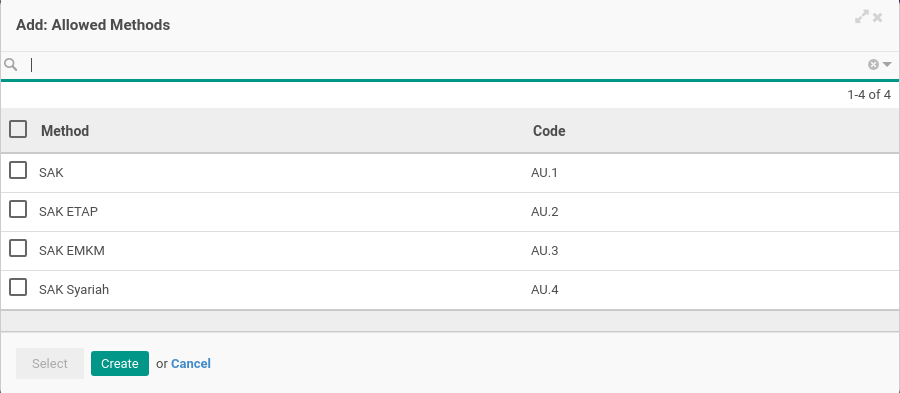
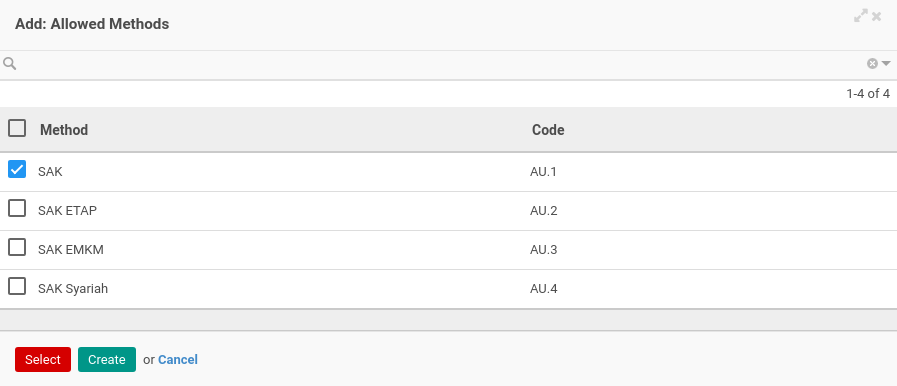
Accountant Service Revisi Daftar Isi Accountant Service Menghapus Accountant Service Menonaktifkan Accountant Service Menambahkan Signing Partner Memodifikasi Signing Partner Menghapus Signing Partner Menambahkan Opini Menghapus Opini Menambahkan Pertanyaan Memodifikasi Pertanyaan Menghapus Pertanya

diff --git a/src/konfigurasi/accountant-service/menambahkan-pertanyaan.md b/src/konfigurasi/accountant-service/menambahkan-pertanyaan.md
@@ -1,1 +1,37 @@
 # Menambahkan Pertanyaan
+
+*(Instruksi kerja ini merupakan sub instruksi dari (1) [Membuat Accountant Service](./membuat.md), atau (2) [Memodifikasi Accountant Service](./memodifikasi.md). Instruksi kerja ini tidak bisa berdiri sendiri)*
+
+## A. INPUT
+
+*(Tidak ada instruksi khusus)*
+
+## B. LANGKAH KERJA
+
+1. Klik label **Add an Item** pada bagian atas-kiri tabel ***Question***
+
+![](../../img/accountant-service/tombol-add-item-question.png)
+
+Pop-up ***Questions*** akan muncul.
+
+![](../../img/accountant-service/tab-quality-control-detail-qualitative.png)
+
+![](../../img/accountant-service/tab-quality-control-detail-quantitative.png)
+
+2. Isi **[Question](./penjelasan.md#field-question)**. Wajib diisi.
+3. Isi **[Sequence](./penjelasan.md#field-question-sequence)**. Wajib diisi.
+4. Pilih **[Type](./penjelasan.md#field-question-type)**. Wajib diisi.
+5. <a name="l5">[Tambah](./menambahkan-jawaban.md)/[Modifikasi](./memodifikasi-jawaban.md)/[Hapus](./menghapus-jawaban.md) **Answer**</a> untuk pilihan *Type* *Qualitative*. Ulangi langkah ini sampai **Answer** sesuai dengan keinginan.
+6. Isi nilai minimum dan maksimum untuk pilihan *Type* *Quantitative*. Wajib diisi.
+7. Klik tombol **Save & Close** pada bagian bawah-kiri pop-up **Question** untuk menyimpan data. Klik tombol **Save & New** pada bagian bawah-kiri pop-up **Question** untuk menyimpan data dan menambahkan data baru.
+
+![](../../img/accountant-service/tombol-save-close-question.png)
+
+![](../../img/accountant-service/tombol-save-new-question.png)
+
+8. Ulangi langkah ke-2 jika pada langkah ke-7 tombol **Save & New** yang dipilih.
+9. Lanjutkan [langkah ke-17 instruksi kerja Membuat Accountant Service](./membuat.md#l17) atau [langkah ke-18 instruksi kerja Memodifikasi Accountant Service](./memodifikasi.md#l18).
+
+## C. OUTPUT
+
+*(Tidak ada instruksi khusus)*

diff --git a/src/konfigurasi/accountant-service/menambahkan-signing-partner.md b/src/konfigurasi/accountant-service/menambahkan-signing-partner.md
@@ -1,1 +1,36 @@
 # Menambahkan Signing Partner
+
+*(Instruksi kerja ini merupakan sub instruksi dari (1) [Membuat Accountant Service](./membuat.md), atau (2) [Memodifikasi Accountant Service](./memodifikasi.md). Instruksi kerja ini tidak bisa berdiri sendiri)*
+
+## A. INPUT
+
+*(Tidak ada instruksi khusus)*
+
+## B. LANGKAH KERJA
+
+1. Klik label **Add an Item** pada bagian atas-kiri tabel ***Signing Partner***
+
+![](../../img/accountant-service/tombol-add-item-signing-partner.png)
+
+Pop-up ***Signing Partner*** akan muncul.
+
+![](../../img/accountant-service/tab-signing-partner-detail.png)
+
+2. Pilih **[Signing Partner](./penjelasan.md#field-signing-partner)**. Wajib diisi.
+3. Pilih **[Sequence](./penjelasan.md#field-sequence)**. Tidak wajib diisi.
+4. Pilih **[Allowed To Confirm](./penjelasan.md#field-allowed-to-confirm)**. Tidak wajib diisi.
+5. Pilih **[Allowed To Validate](./penjelasan.md#field-allowed-to-validate)**. Tidak wajib diisi.
+6. Pilih **[Allowed To Cancel](./penjelasan.md#field-allowed-to-cancel)**. Tidak wajib diisi.
+7. Pilih **[Allowed To Restart](./penjelasan.md#field-allowed-to-restart)**. Tidak wajib diisi.
+8. Klik tombol **Save & Close** pada bagian bawah-kiri pop-up **Signing Partner** untuk menyimpan data. Klik tombol **Save & New** pada bagian bawah-kiri pop-up **Signing Partner** untuk menyimpan data dan menambahkan data baru.
+
+![](../../img/accountant-service/tombol-save-close-signing-partner.png)
+
+![](../../img/accountant-service/tombol-save-new-signing-partner.png)
+
+9. Ulangi langkah ke-2 jika pada langkah ke-8 tombol **Save & New** yang dipilih.
+10. Lanjutkan [langkah ke-12 instruksi kerja Membuat Accountant Service](./membuat.md#l12) atau [langkah ke-13 instruksi kerja Memodifikasi Accountant Service](./memodifikasi.md#l13).
+
+## C. OUTPUT
+
+*(Tidak ada instruksi khusus)*

diff --git a/src/konfigurasi/accountant-service/memodifikasi-signing-partner.md b/src/konfigurasi/accountant-service/memodifikasi-signing-partner.md
@@ -1,1 +1,26 @@
 # Memodifikasi Signing Partner
+
+*(Instruksi kerja ini merupakan sub instruksi dari (1) [Membuat Accountant Service](./membuat.md), atau (2) [Memodifikasi Accountant Service](./memodifikasi.md). Instruksi kerja ini tidak bisa berdiri sendiri)*
+
+## A. INPUT
+
+*(Tidak ada instruksi khusus)*
+
+## B. LANGKAH KERJA
+
+1. Buka data **Signing Partner** yang akan dimodifikasi.
+2. Pilih dan sesuaikan **[Signing Partner](./penjelasan.md#field-signing-partner)** jika dibutuhkan. Wajib diisi.
+3. Pilih dan sesuaikan **[Sequence](./penjelasan.md#field-sequence)** jika dibutuhkan. Tidak wajib diisi.
+4. Pilih dan sesuaikan **[Allowed To Confirm](./penjelasan.md#field-allowed-to-confirm)** jika dibutuhkan. Tidak wajib diisi.
+5. Pilih dan sesuaikan **[Allowed To Validate](./penjelasan.md#field-allowed-to-validate)** jika dibutuhkan. Tidak wajib diisi.
+6. Pilih dan sesuaikan **[Allowed To Cancel](./penjelasan.md#field-allowed-to-cancel)** jika dibutuhkan. Tidak wajib diisi.
+7. Pilih dan sesuaikan **[Allowed To Restart](./penjelasan.md#field-allowed-to-restart)** jika dibutuhkan. Tidak wajib diisi.
+8. Klik tombol **Save** pada bagian bawah-kiri form.
+
+![](../../img/accountant-service/tombol-save-modifikasi-signing-partner.png)
+
+9. Lanjutkan [langkah ke-12 instruksi kerja Membuat Accountant Service](./membuat.md#l12) atau [langkah ke-13 instruksi kerja Memodifikasi Accountant Service](./memodifikasi.md#l13).
+
+## C. OUTPUT
+
+*(Tidak ada instruksi khusus)*

diff --git a/src/konfigurasi/accountant-service/memodifikasi-pertanyaan.md b/src/konfigurasi/accountant-service/memodifikasi-pertanyaan.md
@@ -1,1 +1,25 @@
 # Memodifikasi Pertanyaan
+
+*(Instruksi kerja ini merupakan sub instruksi dari (1) [Membuat Accountant Service](./membuat.md), atau (2) [Memodifikasi Accountant Service](./memodifikasi.md). Instruksi kerja ini tidak bisa berdiri sendiri)*
+
+## A. INPUT
+
+*(Tidak ada instruksi khusus)*
+
+## B. LANGKAH KERJA
+
+1. Buka data **Question** yang akan dimodifikasi.
+2. Isi dan sesuaikan **[Question](./penjelasan.md#field-question)** jika dibutuhkan. Wajib diisi.
+3. Isi dan sesuaikan **[Sequence](./penjelasan.md#field-question-sequence)** jika dibutuhkan. Wajib diisi.
+4. Pilih dan sesuaikan **[Type](./penjelasan.md#field-question-type)** jika dibutuhkan. Wajib diisi.
+5. <a name="l5">[Tambah](./menambahkan-jawaban.md)/[Modifikasi](./memodifikasi-jawaban.md)/[Hapus](./menghapus-jawaban.md) **Answer**</a> untuk pilihan *Type* *Qualitative*. Ulangi langkah ini sampai **Answer** sesuai dengan keinginan.
+6. Isi dan sesuaikan nilai minimum dan maksimum untuk pilihan *Type* *Quantitative* jika dibutuhkan. Wajib diisi.
+7. Klik tombol **Save** pada bagian bawah-kiri form.
+
+![](../../img/accountant-service/tombol-save-modifikasi-question.png)
+
+8. Lanjutkan [langkah ke-17 instruksi kerja Membuat Accountant Service](./membuat.md#l17) atau [langkah ke-18 instruksi kerja Memodifikasi Accountant Service](./memodifikasi.md#l18).
+
+## C. OUTPUT
+
+*(Tidak ada instruksi khusus)*

diff --git a/src/konfigurasi/accountant-service/menambahkan-jawaban.md b/src/konfigurasi/accountant-service/menambahkan-jawaban.md
@@ -1,1 +1,28 @@
 # Menambahkan Jawaban
+
+*(Instruksi kerja ini merupakan sub instruksi dari (1) [Menambahkan Pertanyaan](./menambahkan-pertanyaan.md), atau (2) [Memodifikasi Pertanyaan](./memodifikasi-pertanyaan.md). Instruksi kerja ini tidak bisa berdiri sendiri)*
+
+## A. INPUT
+
+*(Tidak ada instruksi khusus)*
+
+## B. LANGKAH KERJA
+
+1. Klik label **Add an Item** pada bagian atas-kiri tabel ***Answer***
+
+![](../../img/accountant-service/tombol-add-item-answer.png)
+
+2. Isi **[Value](./penjelasan.md#field-value)**. Wajib diisi.
+3. Aktifkan/ Deaktifkan **[Correct Answer](./penjelasan.md#field-correct-answer)**. Tidak wajib diisi.
+4. Klik tombol **Save & Close** pada bagian bawah-kiri pop-up **Answer** untuk menyimpan data. Klik tombol **Save & New** pada bagian bawah-kiri pop-up **Answer** untuk menyimpan data dan menambahkan data baru.
+
+![](../../img/accountant-service/tombol-save-close-answer.png)
+
+![](../../img/accountant-service/tombol-save-new-answer.png)
+
+5. Ulangi mulai langkah ke-1 jika pada langkah ke-4 tombol **Save & New** yang dipilih.
+6. Lanjutkan [langkah ke-5 instruksi kerja Menambahkan Pertanyaan](./menambahkan-pertanyaan.md#l5) atau [langkah ke-5 instruksi kerja Memodifikasi Pertanyaan](./memodifikasi-pertanyaan.md#l5).
+
+## C. OUTPUT
+
+*(Tidak ada instruksi khusus)*

diff --git a/src/SUMMARY.md b/src/SUMMARY.md
@@ -10,7 +10,6 @@
         - [Memodifikasi Signing Partner](./konfigurasi/accountant-service/memodifikasi-signing-partner.md)
         - [Menghapus Signing Partner](./konfigurasi/accountant-service/menghapus-signing-partner.md)
         - [Menambahkan Opini](./konfigurasi/accountant-service/menambahkan-opini.md)
-        - [Memodifikasi Opini](./konfigurasi/accountant-service/memodifikasi-opini.md)
         - [Menghapus Opini](./konfigurasi/accountant-service/menghapus-opini.md)
         - [Menambahkan Pertanyaan](./konfigurasi/accountant-service/menambahkan-pertanyaan.md)
         - [Memodifikasi Pertanyaan](./konfigurasi/accountant-service/memodifikasi-pertanyaan.md)
@@ -19,7 +18,6 @@
         - [Memodifikasi Jawaban](./konfigurasi/accountant-service/memodifikasi-jawaban.md)
         - [Menghapus Jawaban](./konfigurasi/accountant-service/menghapus-jawaban.md)
         - [Menambahkan Method](./konfigurasi/accountant-service/menambahkan-method.md)
-        - [Memodifikasi Method](./konfigurasi/accountant-service/memodifikasi-method.md)
         - [Menghapus Method](./konfigurasi/accountant-service/menghapus-method.md)
         - [Menghapus Accountant Service](./konfigurasi/accountant-service/menghapus.md)
         - [Menonaktifkan Accountant Service](./konfigurasi/accountant-service/menonaktifkan.md)

diff --git a/src/konfigurasi/accountant-service.md b/src/konfigurasi/accountant-service.md
@@ -9,7 +9,6 @@
 - [Memodifikasi Signing Partner](./accountant-service/memodifikasi-signing-partner.md)
 - [Menghapus Signing Partner](./accountant-service/menghapus-signing-partner.md)
 - [Menambahkan Opini](./accountant-service/menambahkan-opini.md)
-- [Memodifikasi Opini](./accountant-service/memodifikasi-opini.md)
 - [Menghapus Opini](./accountant-service/menghapus-opini.md)
 - [Menambahkan Pertanyaan](./accountant-service/menambahkan-pertanyaan.md)
 - [Memodifikasi Pertanyaan](./accountant-service/memodifikasi-pertanyaan.md)
@@ -18,7 +17,6 @@
 - [Memodifikasi Jawaban](./accountant-service/memodifikasi-jawaban.md)
 - [Menghapus Jawaban](./accountant-service/menghapus-jawaban.md)
 - [Menambahkan Method](./accountant-service/menambahkan-method.md)
-- [Memodifikasi Method](./accountant-service/memodifikasi-method.md)
 - [Menghapus Method](./accountant-service/menghapus-method.md)
 - [Menghapus Accountant Service](./accountant-service/menghapus.md)
 - [Menonaktifkan Accountant Service](./accountant-service/menonaktifkan.md)

diff --git a/src/konfigurasi/accountant-service/menambahkan-opini.md b/src/konfigurasi/accountant-service/menambahkan-opini.md
@@ -1,1 +1,28 @@
 # Menambahkan Opini
+
+*(Instruksi kerja ini merupakan sub instruksi dari (1) [Membuat Accountant Service](./membuat.md), atau (2) [Memodifikasi Accountant Service](./memodifikasi.md). Instruksi kerja ini tidak bisa berdiri sendiri)*
+
+## A. INPUT
+
+*(Tidak ada instruksi khusus)*
+
+## B. LANGKAH KERJA
+
+1. Klik label **Add an Item** pada bagian atas-kiri tabel ***Opinion***
+
+![](../../img/accountant-service/tombol-add-item-opinion.png)
+
+Pop-up ***Allowed Opinion*** akan muncul.
+
+![](../../img/accountant-service/tab-opinions-detail.png)
+
+2. Seleksi data *Opinion*.
+3. Klik tombol **Select** pada bagian bawah-kiri pop-up ***Allowed Opinion***
+
+![](../../img/accountant-service/tombol-select-opinion.png)
+
+4. Lanjutkan [langkah ke-15 instruksi kerja Membuat Accountant Service](./membuat.md#l15) atau [langkah ke-16 instruksi kerja Memodifikasi Accountant Service](./memodifikasi.md#l16).
+
+## C. OUTPUT
+
+*(Tidak ada instruksi khusus)*

diff --git a/src/konfigurasi/accountant-service/menambahkan-method.md b/src/konfigurasi/accountant-service/menambahkan-method.md
@@ -1,1 +1,28 @@
 # Menambahkan Method
+
+*(Instruksi kerja ini merupakan sub instruksi dari (1) [Membuat Accountant Service](./membuat.md), atau (2) [Memodifikasi Accountant Service](./memodifikasi.md). Instruksi kerja ini tidak bisa berdiri sendiri)*
+
+## A. INPUT
+
+*(Tidak ada instruksi khusus)*
+
+## B. LANGKAH KERJA
+
+1. Klik label **Add an Item** pada bagian atas-kiri tabel ***Method***
+
+![](../../img/accountant-service/tombol-add-item-method.png)
+
+Pop-up ***Allowed Methods*** akan muncul.
+
+![](../../img/accountant-service/tab-methods-detail.png)
+
+2. Seleksi data *Method*.
+3. Klik tombol **Select** pada bagian bawah-kiri pop-up ***Allowed Methods***
+
+![](../../img/accountant-service/tombol-select-method.png)
+
+4. Lanjutkan [langkah ke-20 instruksi kerja Membuat Accountant Service](./membuat.md#l20) atau [langkah ke-21 instruksi kerja Memodifikasi Accountant Service](./memodifikasi.md#l21).
+
+## C. OUTPUT
+
+*(Tidak ada instruksi khusus)*

diff --git a/src/konfigurasi/accountant-service/memodifikasi-jawaban.md b/src/konfigurasi/accountant-service/memodifikasi-jawaban.md
@@ -1,1 +1,21 @@
-# Memodifikasi jawaban
+# Memodifikasi Jawaban
+
+*(Instruksi kerja ini merupakan sub instruksi dari (1) [Menambahkan Pertanyaan](./menambahkan-pertanyaan.md), atau (2) [Memodifikasi Pertanyaan](./memodifikasi-pertanyaan.md). Instruksi kerja ini tidak bisa berdiri sendiri)*
+
+## A. INPUT
+
+*(Tidak ada instruksi khusus)*
+
+## B. LANGKAH KERJA
+
+1. Isi dan sesuaikan **[Value](./penjelasan.md#field-value)** jika dibutuhkan. Wajib diisi.
+2. Aktifkan/ Deaktifkan **[Correct Answer](./penjelasan.md#field-correct-answer)** jika dibutuhkan. Tidak wajib diisi.
+3. Klik tombol **Save** pada bagian bawah-kiri form.
+
+![](../../img/accountant-service/tombol-save-modifikasi-answer.png)
+
+4. Lanjutkan [langkah ke-5 instruksi kerja Menambahkan Pertanyaan](./menambahkan-pertanyaan.md#l5) atau [langkah ke-5 instruksi kerja Memodifikasi Pertanyaan](./memodifikasi-pertanyaan.md#l5).
+
+## C. OUTPUT
+
+*(Tidak ada instruksi khusus)*

diff --git a/src/konfigurasi/accountant-service/menghapus.md b/src/konfigurasi/accountant-service/menghapus.md
@@ -1,1 +1,25 @@
 # Menghapus Accountant Service
+
+## A. INPUT
+
+* User yang akan menghapus harus memiliki akses untuk menghapus *Accountant Service*.
+
+## B. LANGKAH KERJA
+
+1. Buka menu **Accountant Report -> Configuration -> Accountant Service**. Abaikan jika sudah berada pada menu yang dimaksud.
+2. Buka data *Accountant Service* yang akan dihapus. Abaikan jika data sudah dibuka.
+3. Klik tombol **More** pada bagian atas-tengah form.
+
+![](../../img/accountant-service/tombol-more.png)
+
+4. Klik tombol **Delete** pada *dropdown* yang muncul ketika tombol **More** diklik.
+
+![](../../img/accountant-service/tombol-more-delete.png)
+
+5. Klik tombol **Ok** pada *pop-up* konfirmasi penghapusan yang muncul.
+
+![](../../img/accountant-service/pop-up-konfirmasi-delete.png)
+
+## C. OUTPUT
+
+* Data *Accountant Service* akan terhapus.

diff --git a/src/konfigurasi/accountant-service/menghapus-jawaban.md b/src/konfigurasi/accountant-service/menghapus-jawaban.md
@@ -1,1 +1,20 @@
-# Menghapus jawaban
+# Menghapus Jawaban
+
+*(Instruksi kerja ini merupakan sub instruksi dari (1) [Menambahkan Pertanyaan](./menambahkan-pertanyaan.md), atau (2) [Memodifikasi Pertanyaan](./memodifikasi-pertanyaan.md). Instruksi kerja ini tidak bisa berdiri sendiri)*
+
+## A. INPUT
+
+*(Tidak ada instruksi khusus)*
+
+## B. LANGKAH KERJA
+
+1. Klik icon tempat sampah pada bagian kanan **Answer** yang akan dihapus.
+
+![](../../img/accountant-service/tombol-hapus-answer.png)
+
+2. Ulangi langkah ke-1 untuk setiap **Answer** yang akan dihapus.
+3. Lanjutkan [langkah ke-5 instruksi kerja Menambahkan Pertanyaan](./menambahkan-pertanyaan.md#l5) atau [langkah ke-5 instruksi kerja Memodifikasi Pertanyaan](./memodifikasi-pertanyaan.md#l5).
+
+## C. OUTPUT
+
+*(Tidak ada instruksi khusus)*
